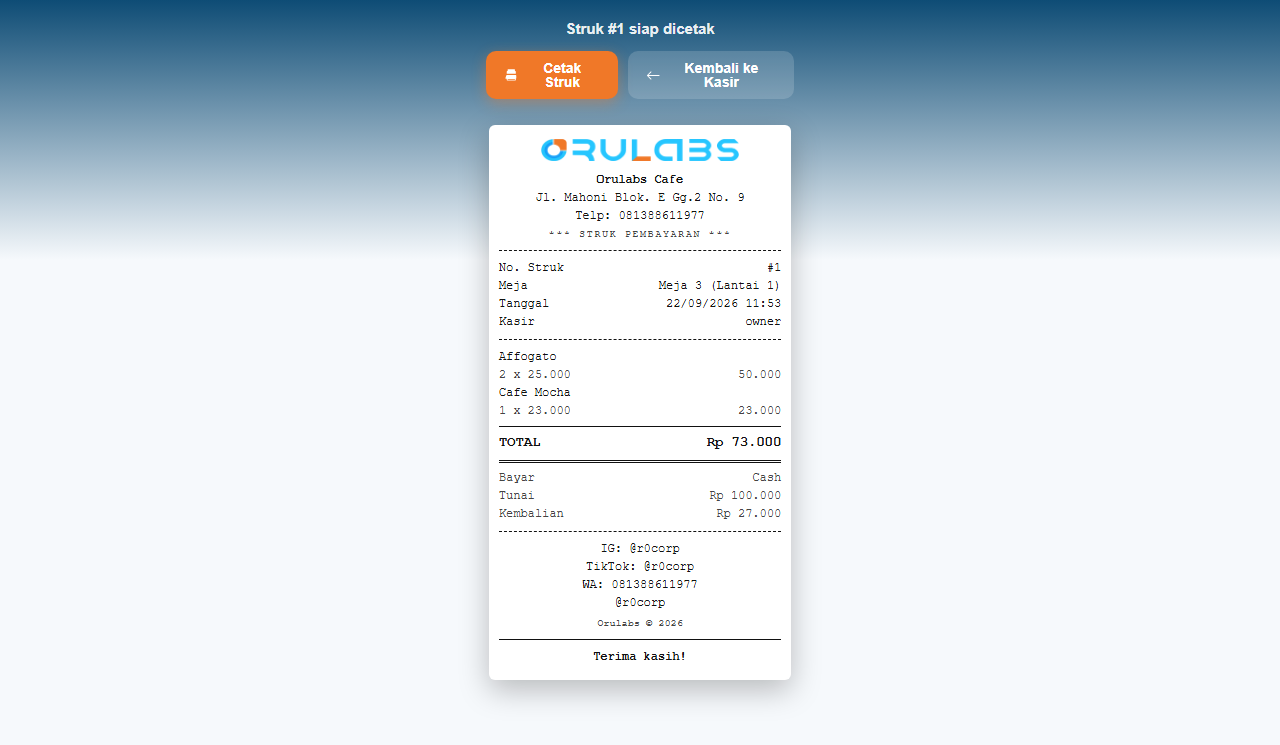
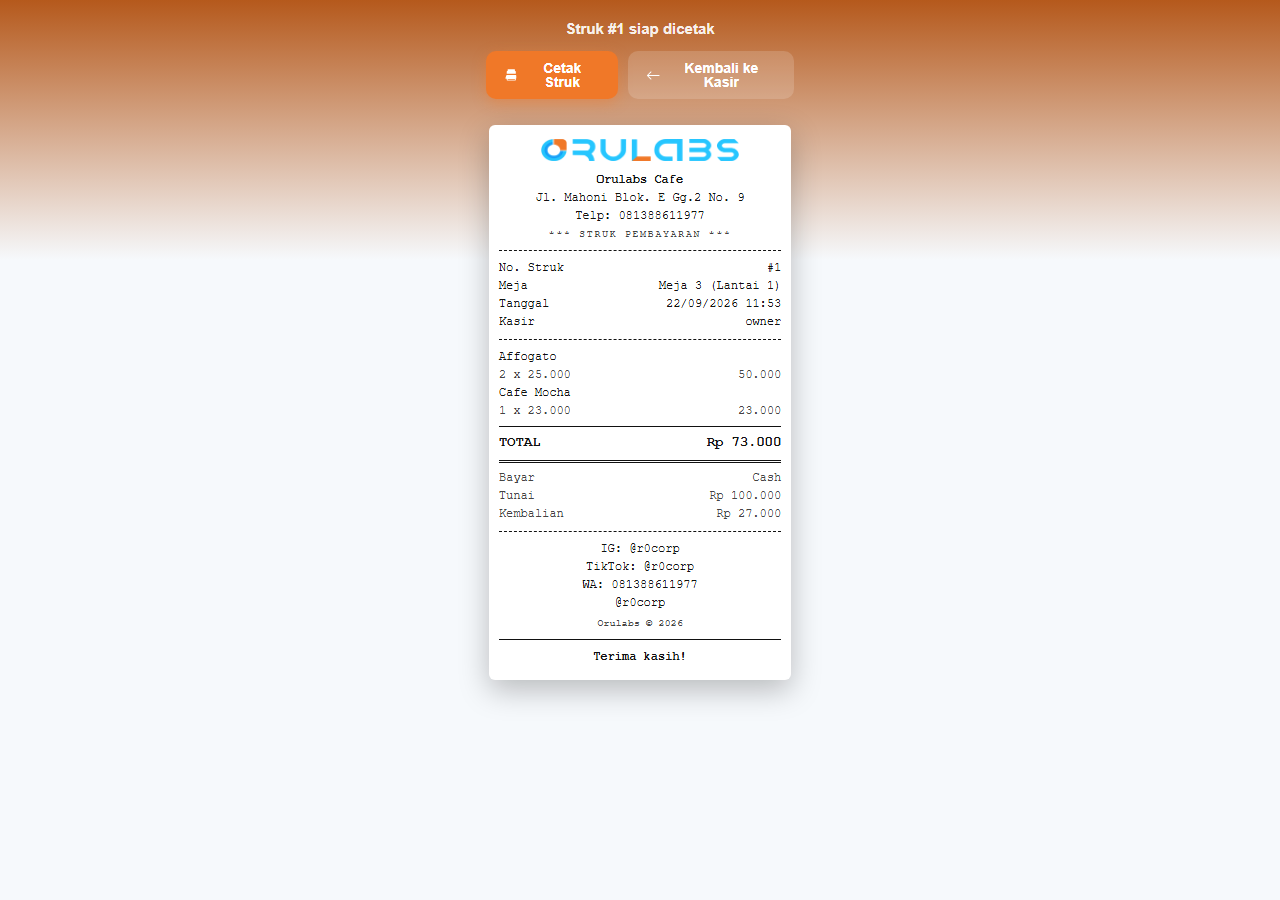
Fix receipt background to use brand orange instead of blue
The light-mode receipt gradient still used the old blue accent
(#0E4C75) while dark mode already got the Orulabs orange glow — swap
the light default to a matching dark orange so both themes stay on
brand. Also refreshes the two receipt screenshots in the README.

diff --git a/app/templates/staff/receipt.html b/app/templates/staff/receipt.html
@@ -32,7 +32,7 @@
     body {
       margin: 0;
       min-height: 100vh;
-      background: linear-gradient(180deg, #0E4C75 0%, #F6F9FC 260px);
+      background: linear-gradient(180deg, #B5591C 0%, #F6F9FC 260px);
       font-family: "Courier New", Courier, monospace;
       color: #111;
       padding-bottom: 40px;
